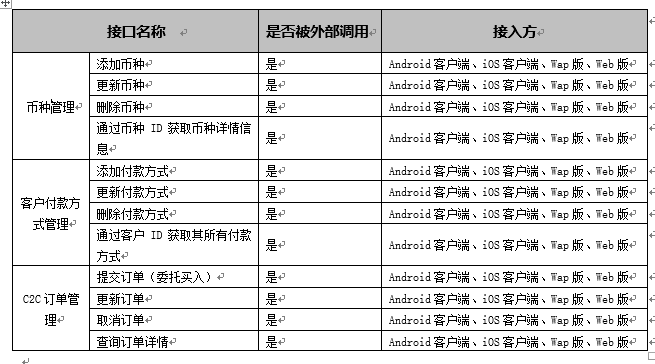
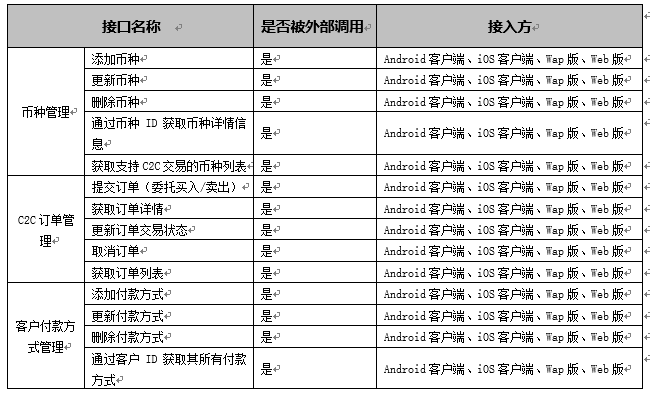
更新目录

diff --git a/The_LDS_C2C_of_API_Design/README.md b/The_LDS_C2C_of_API_Design/README.md
@@ -61,7 +61,7 @@ LDS交易所C2C接口规范
      * [4.1.2.2 输入](#4122-input)
      * [4.1.2.3 输出](#4123-ouput)
 * [4.2 C2C订单管理](#42-c2c-order-management)
-  * [4.2.1 提交订单（委托买入）](#421-add-order)
+  * [4.2.1 提交订单（委托买入/卖出）](#421-add-order)
      * [4.2.1.1 功能说明](#4211-function-description)
      * [4.2.1.2 输入](#4212-input)
      * [4.2.1.3 输出](#4213-ouput)
